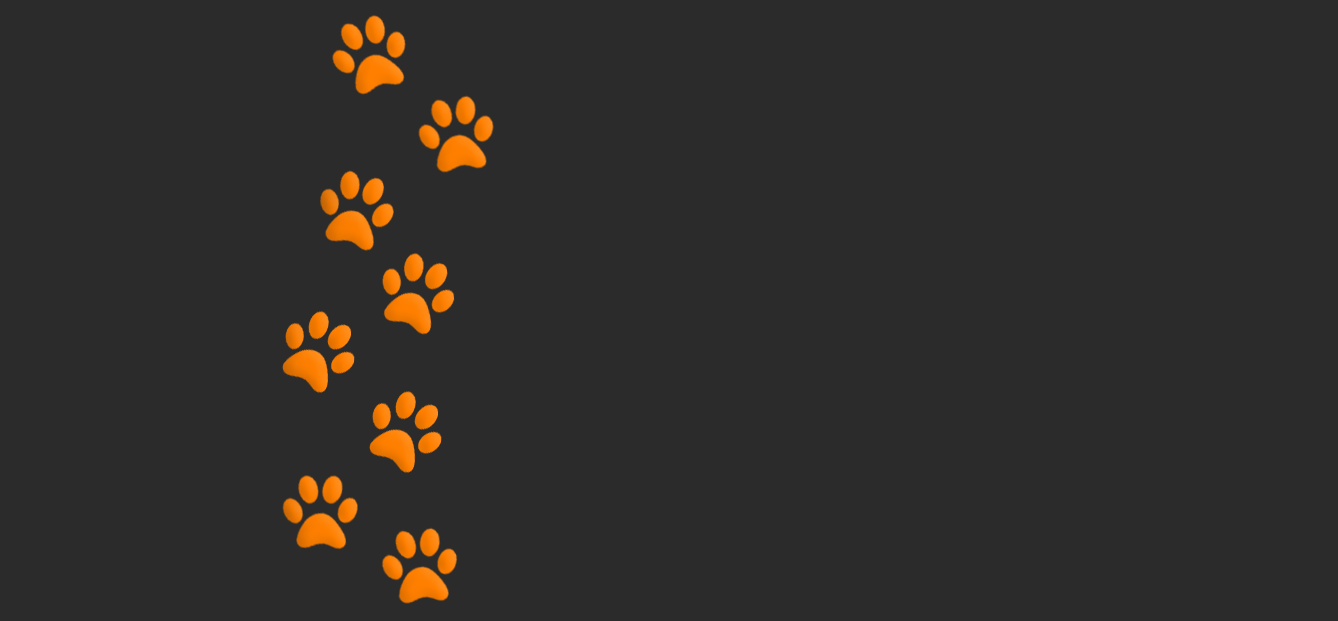
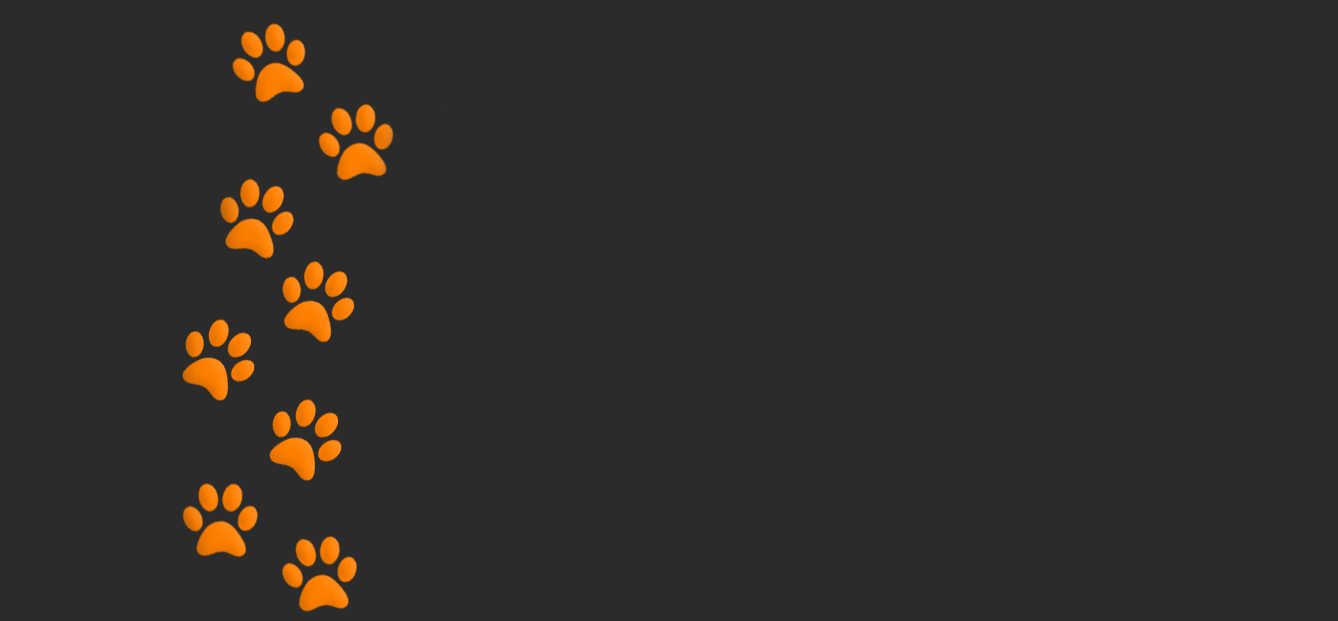
Add files via upload

Changed region(s): [[0.1226, 0.3977, 0.3677, 0.9791], [0.1532, 0.0306, 0.3677, 0.4283]]

diff --git a/main.css b/main.css
@@ -1,9 +1,10 @@
 html{
     width: 100%;
     height: 100%;
-    margin: 0px;
-    padding: 0px;
+    margin: 0;
+    padding: 0;
     overflow-x: hidden; 
+
 }
 body{
     margin: 0 auto;
@@ -43,7 +44,7 @@ a:hover {
     header{
         background-color: rgb(27, 27, 27);
         height: 1vw;
-        width: 100%;
+        width: 100vw;
         float: left;
         margin: 0 auto;
         font-family: raleway;
@@ -58,9 +59,9 @@ a:hover {
   position: relative;
   top: 40px;
   left: 20px;
-  
+  outline: 1px solid red;
   z-index: 1;
-  
+  max-width: 12vw;
   -webkit-user-select: none;
   user-select: none;
 }
@@ -756,23 +757,24 @@ a:hover {
         #fotos{
             margin-top:30px;
             background-color: #2b2b2b;
-            width: 99.5vw;
             height:calc(200px + 50vw);
             float: left;
             display: flex;
             max-height: 1000px;
             z-index: 2;
-            max-width: 2200px;
+            max-width: 100vw;
             margin: 0 auto;
-           
+            margin-left: 0vw;
+            overflow: hidden;
         }
         #fotos img{
             margin-top: 2vw;
-            width:100vw;
-            
+            width: 100vw;
+          max-width: 900px;
+           
           
-            max-width: 750px;
-             max-height: 950px;
+            
+             
     
             
         }

diff --git a/code.js b/code.js
@@ -207,7 +207,8 @@ $('#fotos').slick({
   adaptiveHeight: true,
   autoplay:true,
   autoplaySpeed:1000,
-  speed:1000
+  speed:1000,
+  
 });
 }
 
